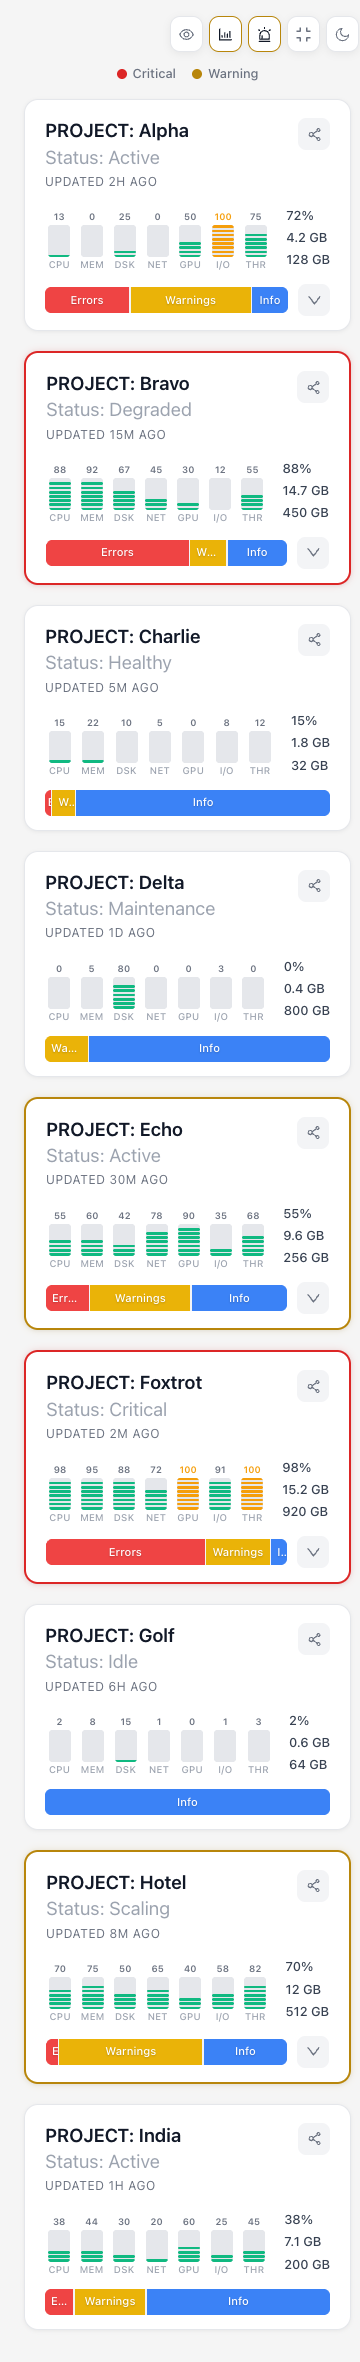
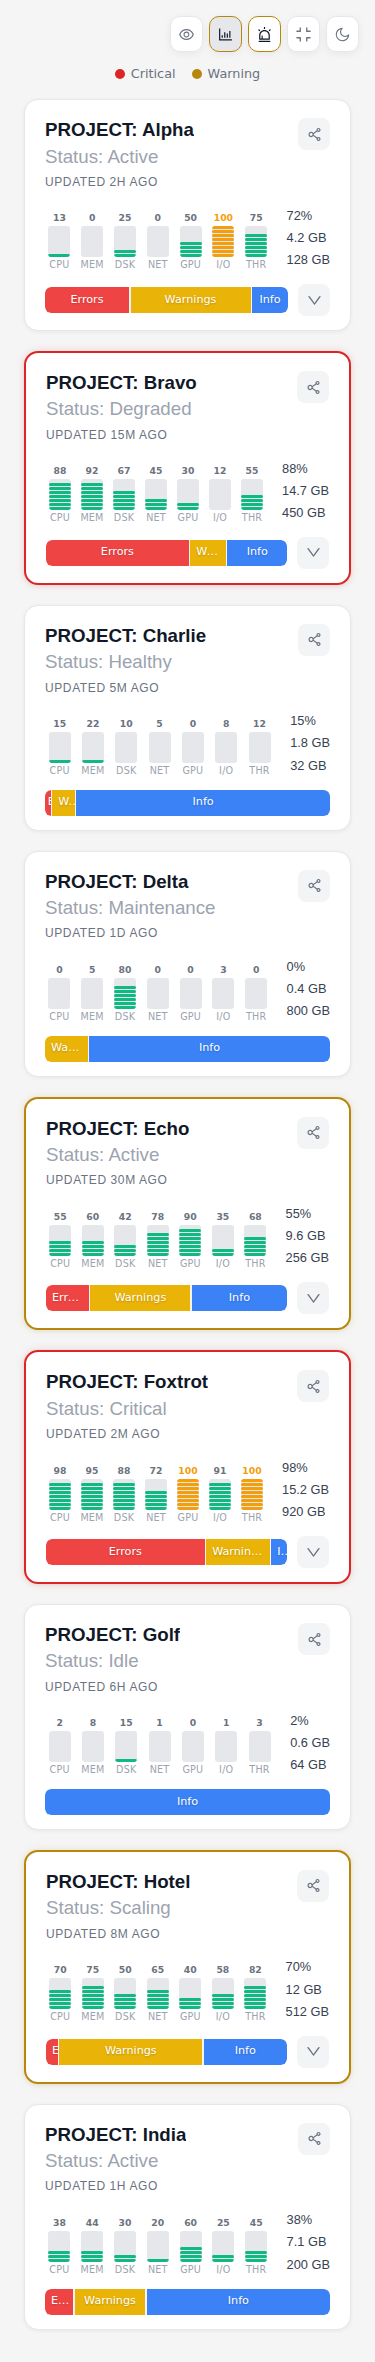
Fix gauge segment heights and improve compact card layout
- Fix uneven gauge segments in normal view by using fixed 3px segment
  heights with 1px gaps instead of fractional flex sizing (2.6875px)
- Add subtitle text below title in compact view with smaller/lighter styling
- Reduce compact card padding and gaps to reclaim vertical space
- Update all screenshots

https://claude.ai/code/session_018uFt2K4uPZLk9hC1RMM5Av

diff --git a/src/components/StatusCard.css b/src/components/StatusCard.css
@@ -169,15 +169,14 @@
 
 /* Segmented gauge */
 .gauge-track-segmented {
+  height: 31px;
   flex-direction: column-reverse;
-  gap: 1.5px;
+  gap: 1px;
   align-items: stretch;
 }
 
 .gauge-segment {
-  flex: 1 1 0%;
-  min-height: 0;
-  max-height: none;
+  flex: 0 0 3px;
   border-radius: 1.5px;
   transition: background 0.2s;
 }
@@ -310,13 +309,31 @@
 
 /* ── Compact mode ── */
 .status-card-compact {
-  padding: 10px 14px 8px;
-  gap: 6px;
+  padding: 8px 12px 6px;
+  gap: 4px;
   border-radius: 10px;
 }
 
 .status-card-compact .card-title {
   font-size: 0.85em !important;
+}
+
+.card-subtitle-compact {
+  font-size: 0.68em !important;
+  color: var(--text-muted) !important;
+  line-height: 1.2 !important;
+  white-space: nowrap;
+  overflow: hidden;
+  text-overflow: ellipsis;
+  opacity: 0.75;
+}
+
+.status-card-compact .card-header {
+  gap: 0px;
+}
+
+.status-card-compact .header-text {
+  gap: 0px;
 }
 
 /* Compact gauges — solid, 3 discrete states, no labels */

diff --git a/src/components/StatusCard.tsx b/src/components/StatusCard.tsx
@@ -182,6 +182,7 @@ export default function StatusCard({
             {title}
           </Text>
           {!compact && <Text className="card-subtitle">{subtitle}</Text>}
+          {compact && <Text className="card-subtitle-compact">{subtitle}</Text>}
           {!compact && <Text className="card-metadata">{metadata}</Text>}
         </div>
         {!compact && onShare && (
